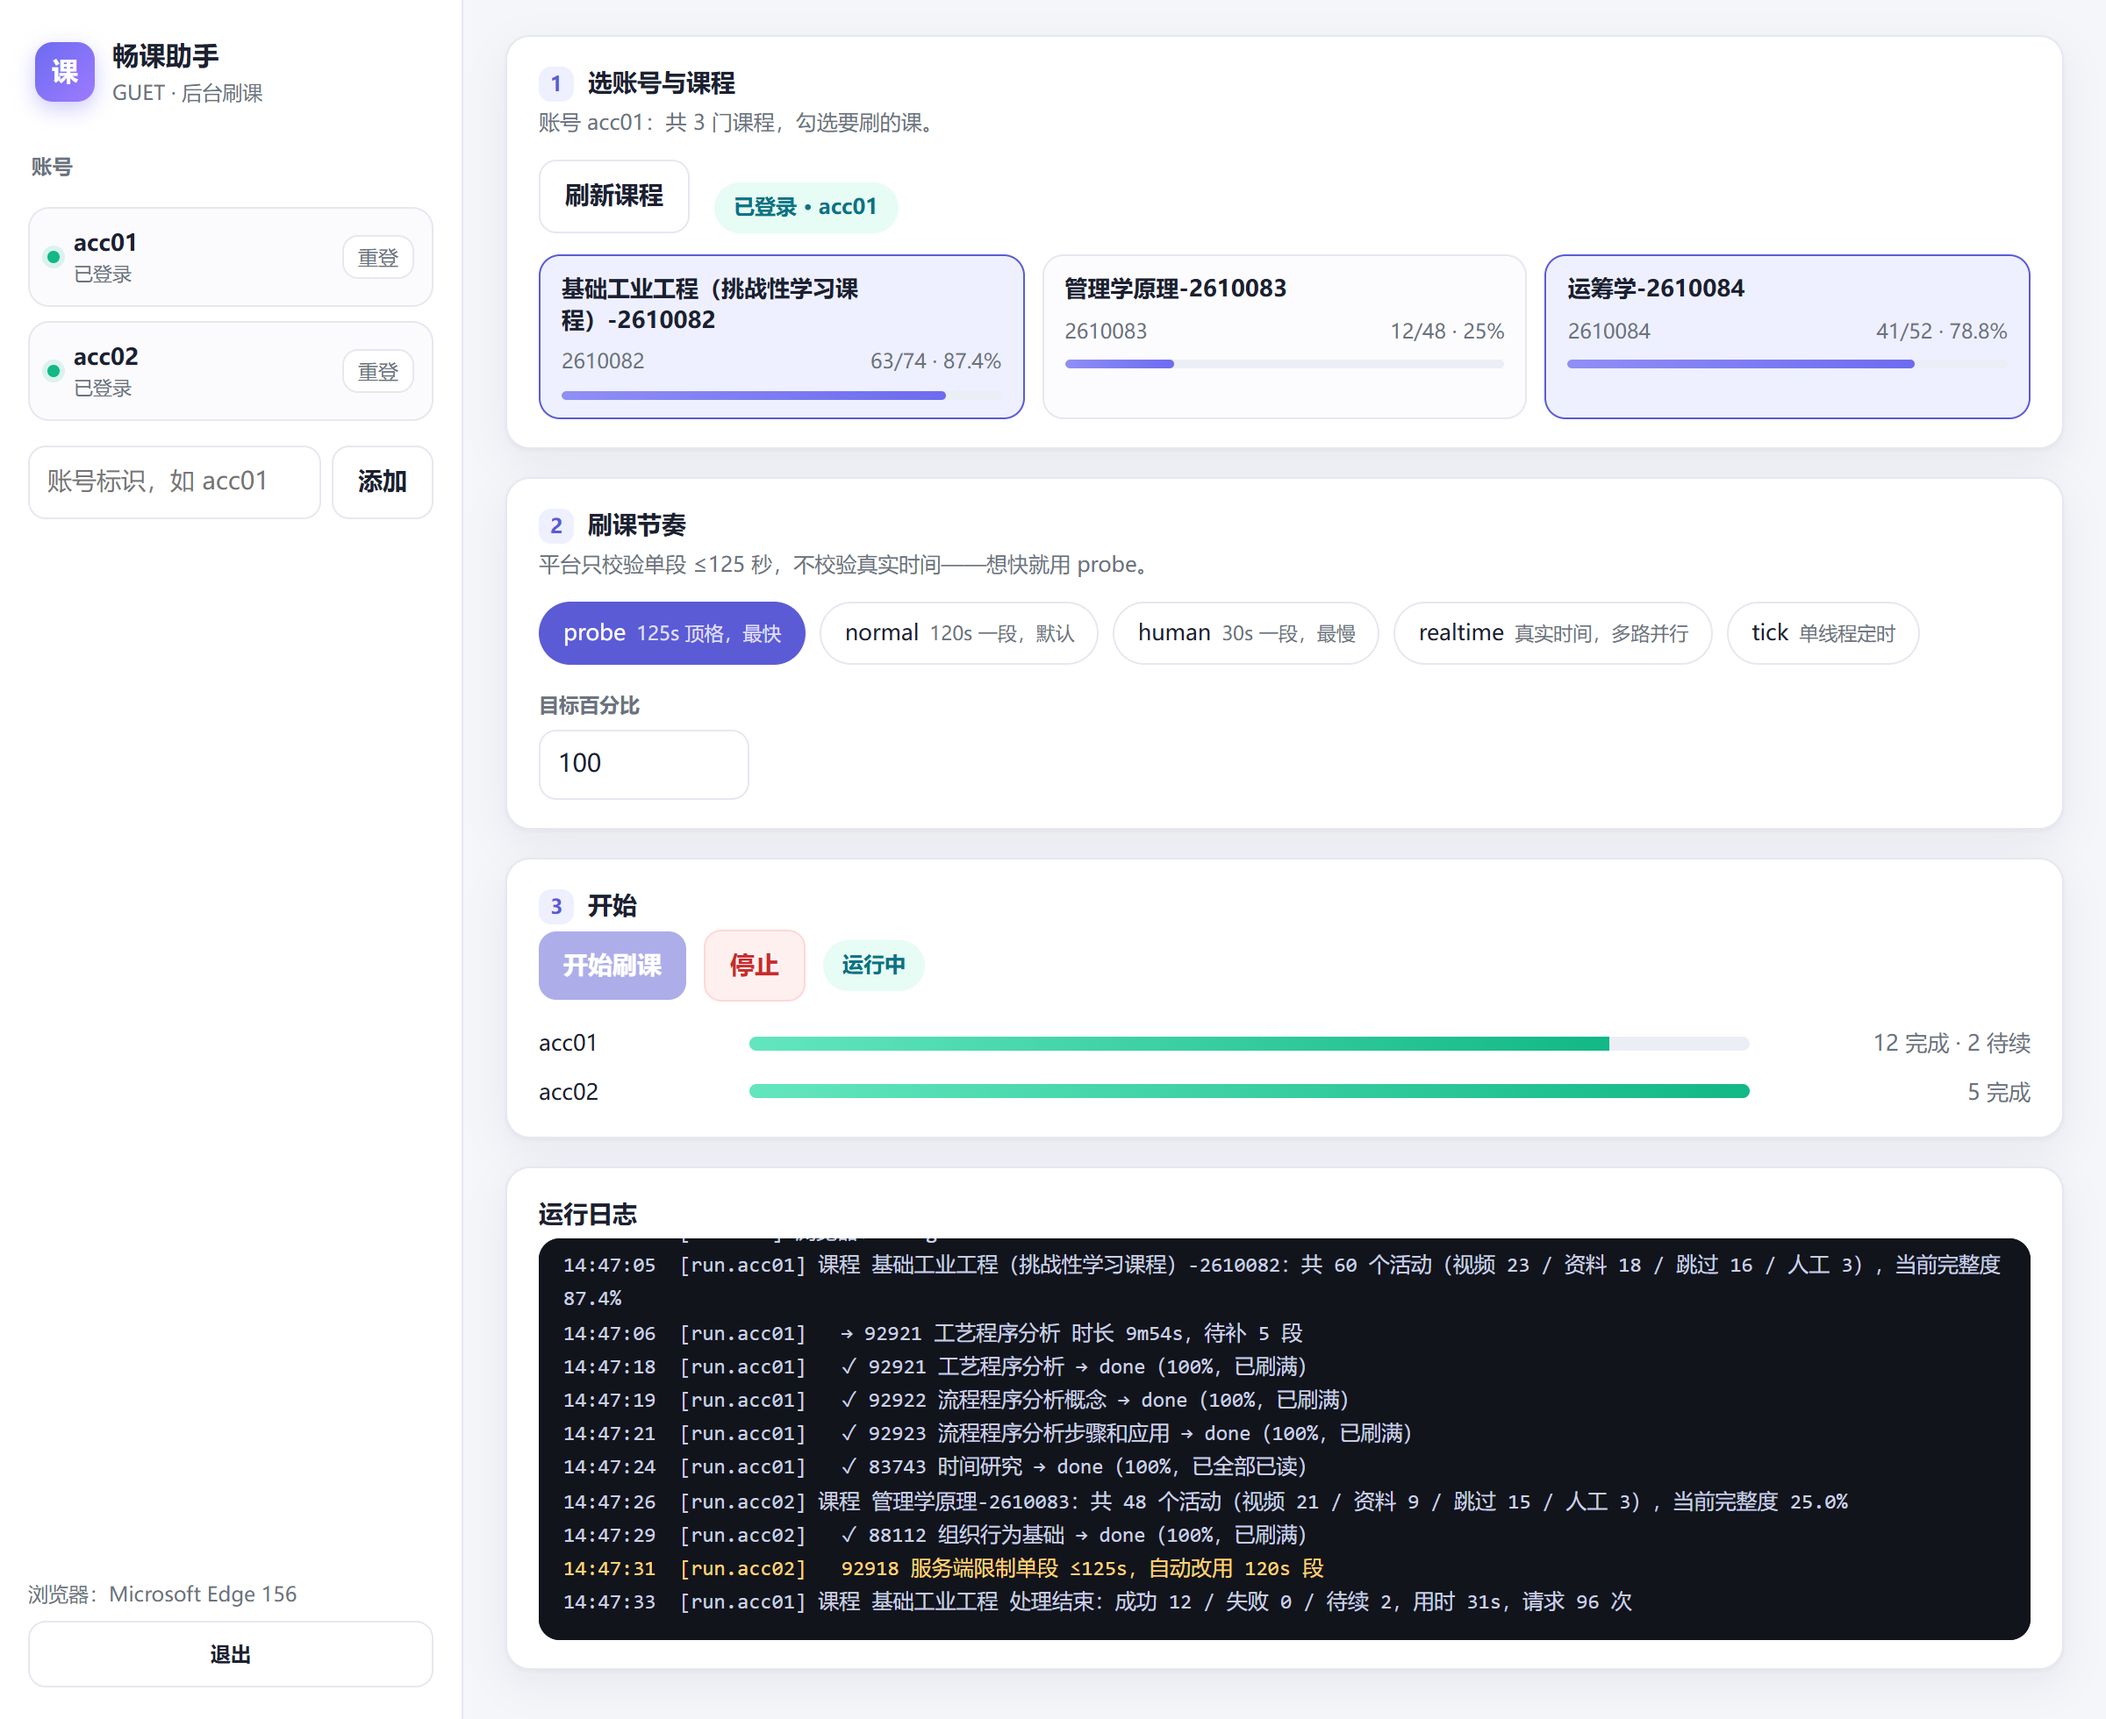
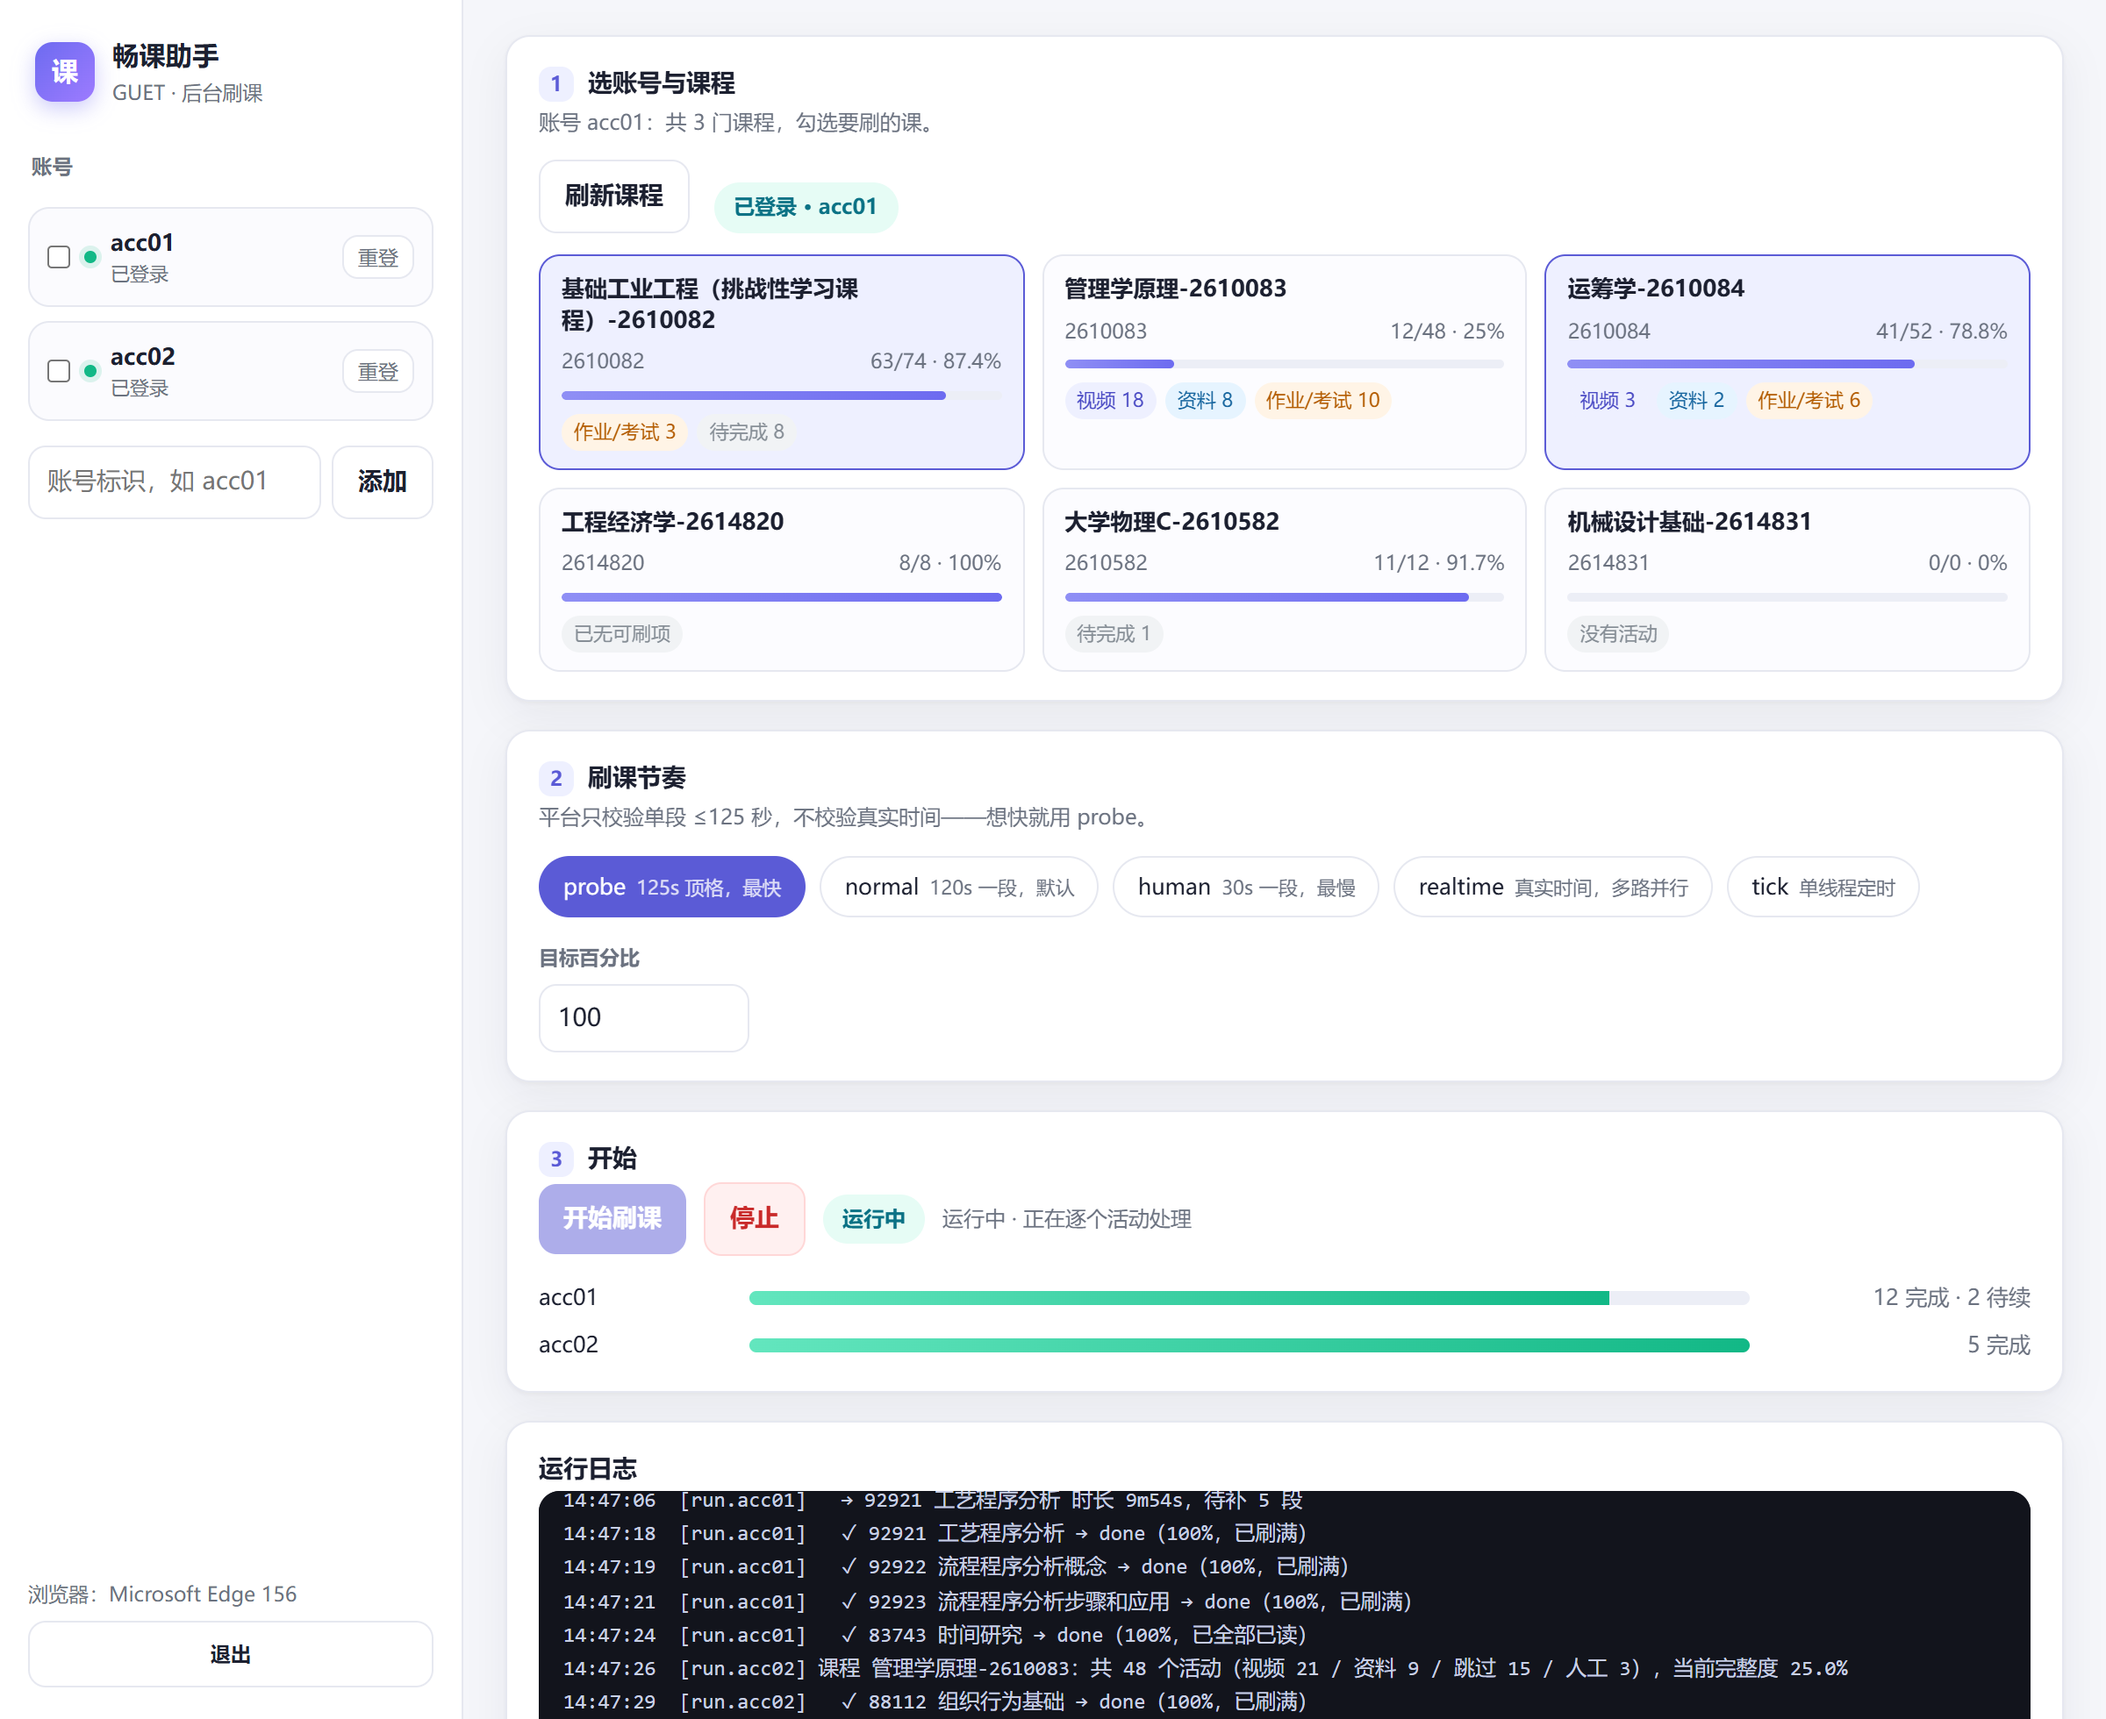
feat(gui): 课程卡显示「可刷 / 需人工」构成
之前课程列表只显示 0/0 · 0%，看不出为什么没得刷。现在每张卡带标签：

- 视频 N / 资料 N：还能自动刷的数量
- 作业/考试 N：需要人工，只统计未完成的
- 待完成 N：平台显示未完成但不是视频/资料/作业（通常是考试或成绩未发布）
- 已无可刷项 / 没有活动：明确的空状态

后端 /api/courses 用缓存 + 3 并发统计每门课的 activities 构成与已读状态；
前端首次拿到账号后自动拉课程（之前 loadCourses 早于 refresh 执行，导致空列表）。

用真实账号验证：基础工业工程 63/74 → 作业 3 + 待完成 8；
马克思 172/204 → 待完成 32；工程经济学 8/8 → 已无可刷项。

diff --git a/guet/gui/web/index.html b/guet/gui/web/index.html
@@ -86,6 +86,13 @@
   .course .meta{font-size:11.5px;color:var(--muted);display:flex;justify-content:space-between}
   .bar{height:5px;border-radius:4px;background:#eceef6;margin-top:8px;overflow:hidden}
   .bar>i{display:block;height:100%;border-radius:4px;background:linear-gradient(90deg,#8f8ff5,#6d6bf0)}
+  .tags{display:flex;flex-wrap:wrap;gap:5px;margin-top:8px}
+  .tag{font-size:11px;padding:2px 7px;border-radius:999px;background:#eef0f6;color:#5a6072;white-space:nowrap}
+  .tag.video{background:#eef0ff;color:#4b4bc4}
+  .tag.material{background:#e6f4ff;color:#16659e}
+  .tag.manual{background:#fff4e6;color:#b35c00}
+  .tag.none{background:#f1f3f5;color:#868e96}
+  .tag.wait{background:#f1f3f5;color:#adb5bd}
   .chips{display:flex;flex-wrap:wrap;gap:8px}
   .chip{border:1px solid var(--line);border-radius:999px;padding:7px 13px;font-size:12.5px;
         cursor:pointer;background:#fff;transition:.15s;color:var(--ink)}
@@ -195,7 +202,7 @@ const SPEEDS = [
   ['realtime','realtime','真实时间，多路并行'],
   ['tick','tick','单线程定时'],
 ];
-let state = {accounts:[], courses:[], selected:new Set(), picked:new Set(), planned:{}, speed:'normal', logSeq:0, busy:false};
+let state = {accounts:[], courses:[], selected:new Set(), picked:new Set(), planned:{}, speed:'normal', logSeq:0, busy:false, autoLoaded:false};
 
 function $(id){ return document.getElementById(id); }
 function toast(msg){
@@ -253,6 +260,7 @@ function renderCourses(){
       <div class="t">${esc(c.name)}</div>
       <div class="meta"><span>${esc(c.code||'')}</span><span>${c.completed}/${c.total} · ${c.percent}%</span></div>
       <div class="bar"><i style="width:${Math.min(100,c.percent)}%"></i></div>
+      ${courseTags(c)}
     </div>`).join('');
 }
 function renderProgress(){
@@ -308,6 +316,11 @@ async function refresh(){
     state.progress = data.progress || {};
     if (data.error) $('courseHint').textContent = data.error;
     renderAccounts(); renderProgress(); renderRunState();
+    // 首次拿到账号后自动拉一次课程（loadCourses 比 refresh 先跑，那时账号还是空的）
+    if (!state.autoLoaded && state.accounts.some(a => a.logged_in)) {
+      state.autoLoaded = true;
+      loadCourses();
+    }
   }catch(e){ /* 后端还没起好时忽略 */ }
 }
 
@@ -336,7 +349,7 @@ async function login(name){
 async function loadCourses(){
   const acc = currentAccount();
   if (!acc || !acc.logged_in) return toast('先登录账号');
-  $('courseHint').textContent = '正在读取课程…';
+  $('courseHint').textContent = '正在读取课程并统计每门课的可刷项…（首次会慢几秒）';
   try{
     const data = await api('/api/courses', {name: acc.name});
     state.courses = data.courses || [];
@@ -351,6 +364,21 @@ async function loadCourses(){
     $('sessionState').className = 'status-pill';
   }
 }
+function courseTags(c){
+  if (c.auto === null || c.auto === undefined) {
+    return '<div class="tags"><span class="tag wait">统计中…</span></div>';
+  }
+  const parts = [];
+  if (c.todo_video) parts.push(`<span class="tag video">视频 ${c.todo_video}</span>`);
+  if (c.todo_material) parts.push(`<span class="tag material">资料 ${c.todo_material}</span>`);
+  if (c.manual) parts.push(`<span class="tag manual">作业/考试 ${c.manual}</span>`);
+  if (c.other) parts.push(`<span class="tag none" title="平台显示仍未完成，但不是视频/资料/作业——通常是考试或成绩未发布的活动">待完成 ${c.other}</span>`);
+  if (!parts.length) {
+    parts.push(c.total ? '<span class="tag none">已无可刷项</span>' : '<span class="tag none">没有活动</span>');
+  }
+  return `<div class="tags">${parts.join('')}</div>`;
+}
+
 function toggleCourse(id){
   if (state.selected.has(id)) state.selected.delete(id); else state.selected.add(id);
   renderCourses();

diff --git a/guet/gui/server.py b/guet/gui/server.py
@@ -24,7 +24,7 @@ from ..benchmark import measure, plan_scale, recommend
 from ..browser import BrowserUnavailable, find_edge_exe
 from ..client import SessionExpired, TronClassError
 from ..config import SPEEDS, AppConfig, ConfigError, _check_lanes, load_config
-from ..planner import ACTION_MATERIAL, ACTION_VIDEO, build_plan
+from ..planner import ACTION_MATERIAL, ACTION_VIDEO, MANUAL_TYPES, build_plan
 from ..runner import resolve_lanes
 from ..session import LoginRequired, SessionError
 from ..transport import TransportError
@@ -303,6 +303,41 @@ def _client_for(state: AppState, name: str):
         return account, client, transport
 
 
+def _course_cache(state: AppState):
+    cache = getattr(state, "_course_cache", None)
+    if cache is None:
+        cache = scheduler.CourseCache(state.root / "course-cache.json", 1800)
+        state._course_cache = cache
+    return cache
+
+
+def _course_breakdown(cache, client, cid: int) -> dict:
+    """统计一门课里「还能自动刷」和「只能人工」的数量（课程卡上直接展示）。"""
+    activities = (cache.bundle(cid, client) or {}).get("activities") or []
+    reads = client.activity_reads_for_user(cid)
+    todo_video = todo_material = 0
+    manual = 0
+    for activity in activities:
+        atype = str(activity.get("type") or "")
+        try:
+            aid = int(activity.get("id"))
+        except (TypeError, ValueError):
+            continue
+        finished = (reads.get(aid) or {}).get("completeness") == "full"
+        if atype == "online_video":
+            todo_video += 0 if finished else 1
+        elif atype == "material":
+            todo_material += 0 if finished else 1
+        elif atype in MANUAL_TYPES:
+            manual += 0 if finished else 1      # 只算还没做的作业/考试
+    return {
+        "todo_video": todo_video,
+        "todo_material": todo_material,
+        "manual": manual,
+        "auto": todo_video + todo_material,
+    }
+
+
 def api_courses(state: AppState, body: dict) -> dict:
     account, client, transport = _client_for(state, str(body.get("name") or ""))
     try:
@@ -331,7 +366,32 @@ def api_courses(state: AppState, body: dict) -> dict:
                 "completed": completed,
                 "total": total,
                 "percent": round(percent, 1),
+                "todo_video": None,      # None = 还没统计
+                "todo_material": None,
+                "manual": None,
+                "auto": None,
             })
+
+        # 并发补构成统计：activities 走缓存，第二次刷新几乎是瞬间
+        cache = _course_cache(state)
+        if rows:
+            from concurrent.futures import ThreadPoolExecutor
+
+            with ThreadPoolExecutor(max_workers=3, thread_name_prefix="course") as pool:
+                futures = {pool.submit(_course_breakdown, cache, client, row["id"]): row
+                           for row in rows}
+                for future, row in futures.items():
+                    try:
+                        row.update(future.result(timeout=60))
+                    except Exception as exc:  # 单门课统计失败不影响列表
+                        log.debug("统计课程 %s 构成失败：%s", row["id"], exc)
+                        row.update({"todo_video": 0, "todo_material": 0, "manual": 0, "auto": 0})
+
+        # 平台口径里还有「其它类型」的未完成活动（考试常不在 activities 列表里）
+        for row in rows:
+            remain = max(0, int(row.get("total") or 0) - int(row.get("completed") or 0))
+            known = int(row.get("auto") or 0) + int(row.get("manual") or 0)
+            row["other"] = max(0, remain - known)
         return {"ok": True, "courses": rows, "account": account.name}
     finally:
         transport.close()

diff --git a/packaging/make_screenshot.py b/packaging/make_screenshot.py
@@ -19,6 +19,8 @@ OUT = ROOT / "docs" / "screenshot.png"
 DEMO_JS = r"""
 () => {
   for (let i = 1; i < 5000; i++) { clearInterval(i); clearTimeout(i); }
+  refresh = function(){};          // 冻结轮询，别让后端数据把演示数据覆盖回去
+  state.autoLoaded = true;
   const toastEl = document.getElementById('toast');
   if (toastEl) { toastEl.classList.remove('show'); toastEl.textContent = ''; }
   state.accounts = [
@@ -28,9 +30,18 @@ DEMO_JS = r"""
   state.browser = 'Microsoft Edge 156';
   state.status = 'running';
   state.courses = [
-    {id: 29066, name: '基础工业工程（挑战性学习课程）-2610082', code: '2610082', completed: 63, total: 74, percent: 87.4},
-    {id: 29117, name: '管理学原理-2610083', code: '2610083', completed: 12, total: 48, percent: 25.0},
-    {id: 29142, name: '运筹学-2610084', code: '2610084', completed: 41, total: 52, percent: 78.8},
+    {id: 29066, name: '基础工业工程（挑战性学习课程）-2610082', code: '2610082', completed: 63, total: 74, percent: 87.4,
+     todo_video: 0, todo_material: 0, manual: 3, other: 8, auto: 0},
+    {id: 29117, name: '管理学原理-2610083', code: '2610083', completed: 12, total: 48, percent: 25.0,
+     todo_video: 18, todo_material: 8, manual: 10, other: 0, auto: 26},
+    {id: 29142, name: '运筹学-2610084', code: '2610084', completed: 41, total: 52, percent: 78.8,
+     todo_video: 3, todo_material: 2, manual: 6, other: 0, auto: 5},
+    {id: 29143, name: '工程经济学-2614820', code: '2614820', completed: 8, total: 8, percent: 100,
+     todo_video: 0, todo_material: 0, manual: 0, other: 0, auto: 0},
+    {id: 29144, name: '大学物理C-2610582', code: '2610582', completed: 11, total: 12, percent: 91.7,
+     todo_video: 0, todo_material: 0, manual: 0, other: 1, auto: 0},
+    {id: 29145, name: '机械设计基础-2614831', code: '2614831', completed: 0, total: 0, percent: 0,
+     todo_video: 0, todo_material: 0, manual: 0, other: 0, auto: 0},
   ];
   state.selected = new Set([29066, 29142]);
   state.speed = 'probe';
@@ -93,7 +104,9 @@ def main() -> int:
             page.goto(url, wait_until="load")
             page.wait_for_timeout(1200)
             page.evaluate(DEMO_JS)
-            page.wait_for_timeout(400)
+            page.wait_for_timeout(2000)
+            page.evaluate(DEMO_JS)      # 再注入一次，压掉可能还没回来的 refresh
+            page.wait_for_timeout(500)
             page.screenshot(path=str(OUT))
             browser.close()
         print("写入", OUT, f"{OUT.stat().st_size / 1024:.0f} KB")
